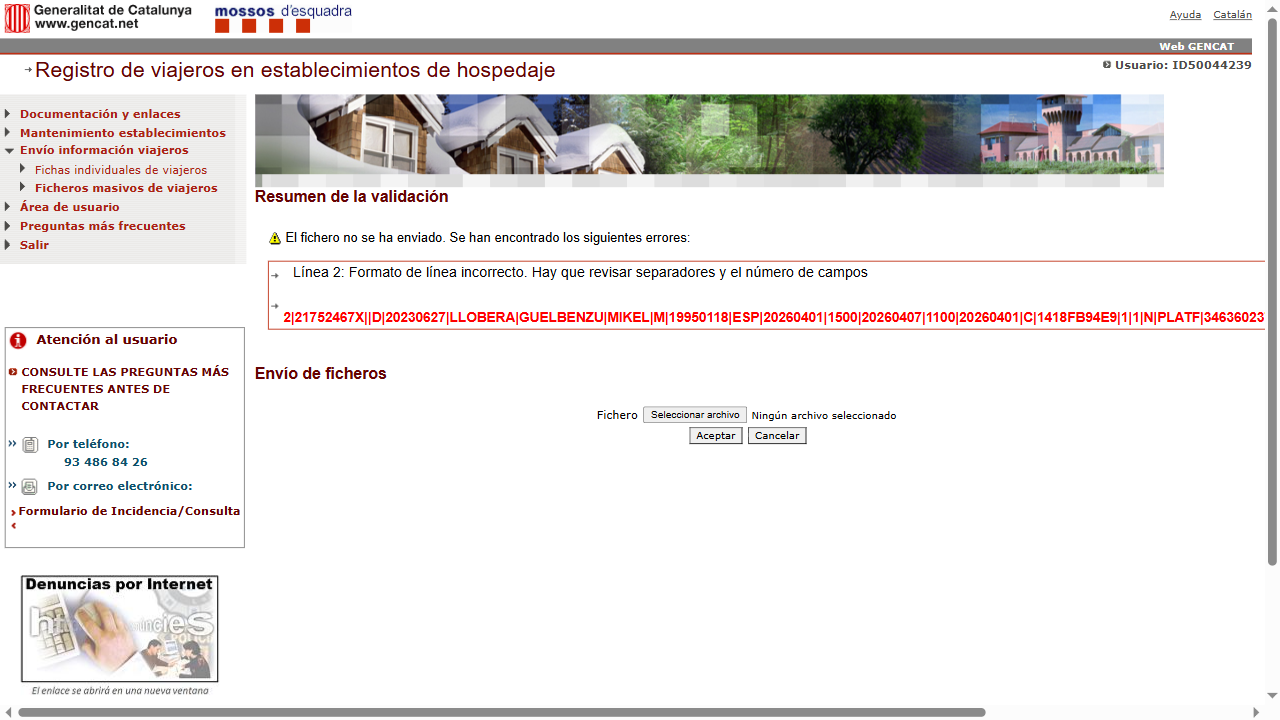
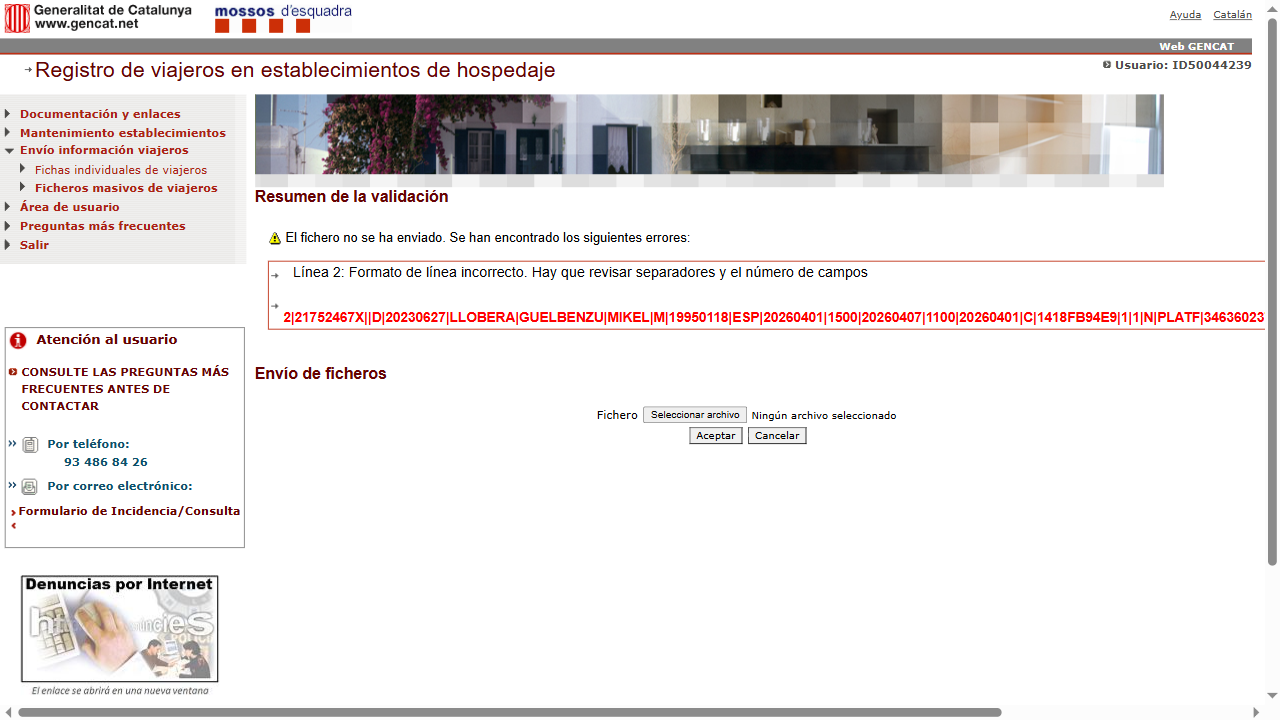
solved

Changed region(s): [[0.1875, 0.1222, 0.9062, 0.275], [0.75, 0.9778, 0.7812, 1.0]]

diff --git a/index.html b/index.html
@@ -810,10 +810,12 @@ function generateFile() {
   const hOut = (v('f-hora-out')||'11:00').replace(':','');
   const pais = (v('f-pais')||'ESP').toUpperCase();
 
-  const linEstab = ['1', ESTAB.id, ESTAB.nom, fconf, hconf, '1', 'V24'].join('|');
+  // No line 0 — single establishment only
+  // Use fixed 09:00 time to avoid future time rejection by Mossos
+  const linEstab = ['1', ESTAB.id, ESTAB.nom, fconf, '0900', '1', 'V24'].join('|');
 
-  // Auto-detect contract type: R (reserva) if entry is future, C (contracte) if today or past
-  const tipusContracte = entFmt > fmtDate(now) ? 'R' : 'C';
+  // R=Reserva for future entries, C=Contracte en curs for today/past
+  const tipusContracte = entFmt >= fmtDate(now) ? 'R' : 'C';
 
   // Clean phone: remove spaces, +, dashes — only digits, max 20
   const telClean = (v('f-tel')||'').replace(/[^0-9]/g, '').slice(0, 20);

diff --git a/mossos_generator.py b/mossos_generator.py
@@ -9,7 +9,6 @@ Uso:
   python mossos_generator.py --listar           # Lista ficheros generados
 """
 
-
 import json
 import os
 import sys
@@ -48,12 +47,14 @@ def get_filename(counter):
 # ─── GENERAR FICHERO TXT ─────────────────────────────────────────────────────
 def generar_fichero(viatgers: list, tipo_contrato: str = TIPO_CONTRATO_DEFAULT):
     now = datetime.now()
+    # Use yesterday's date for confeccio to avoid future date rejection
     fecha_confeccio = now.strftime("%Y%m%d")
-    hora_confeccio = now.strftime("%H%M")
+    hora_confeccio = "0900"  # Fixed morning time to avoid future time rejection
     num_viatgers = len(viatgers)
 
     linies = []
 
+    # NO línia 0 (agrupació) — only one establishment
     # Línia establiment (tipus 1)
     linia1 = "|".join([
         "1",
@@ -294,7 +295,16 @@ def main():
             print("No hay ficheros generados todavía.")
         return
 
-    tipo_contrato = "R" if args.reserva else "C"
+    # Auto-detect: R (reserva) if entry date is future, C (contracte en curs) if today or past
+    if args.reserva:
+        tipo_contrato = "R"
+    else:
+        try:
+            entrada_str = viatgers[0].get("data_entrada", "") if viatgers else ""
+            entrada_date = datetime.strptime(entrada_str, "%Y%m%d").date()
+            tipo_contrato = "R" if entrada_date > date.today() else "C"
+        except:
+            tipo_contrato = "C" 
 
     if args.foto:
         # Modo automático con foto
